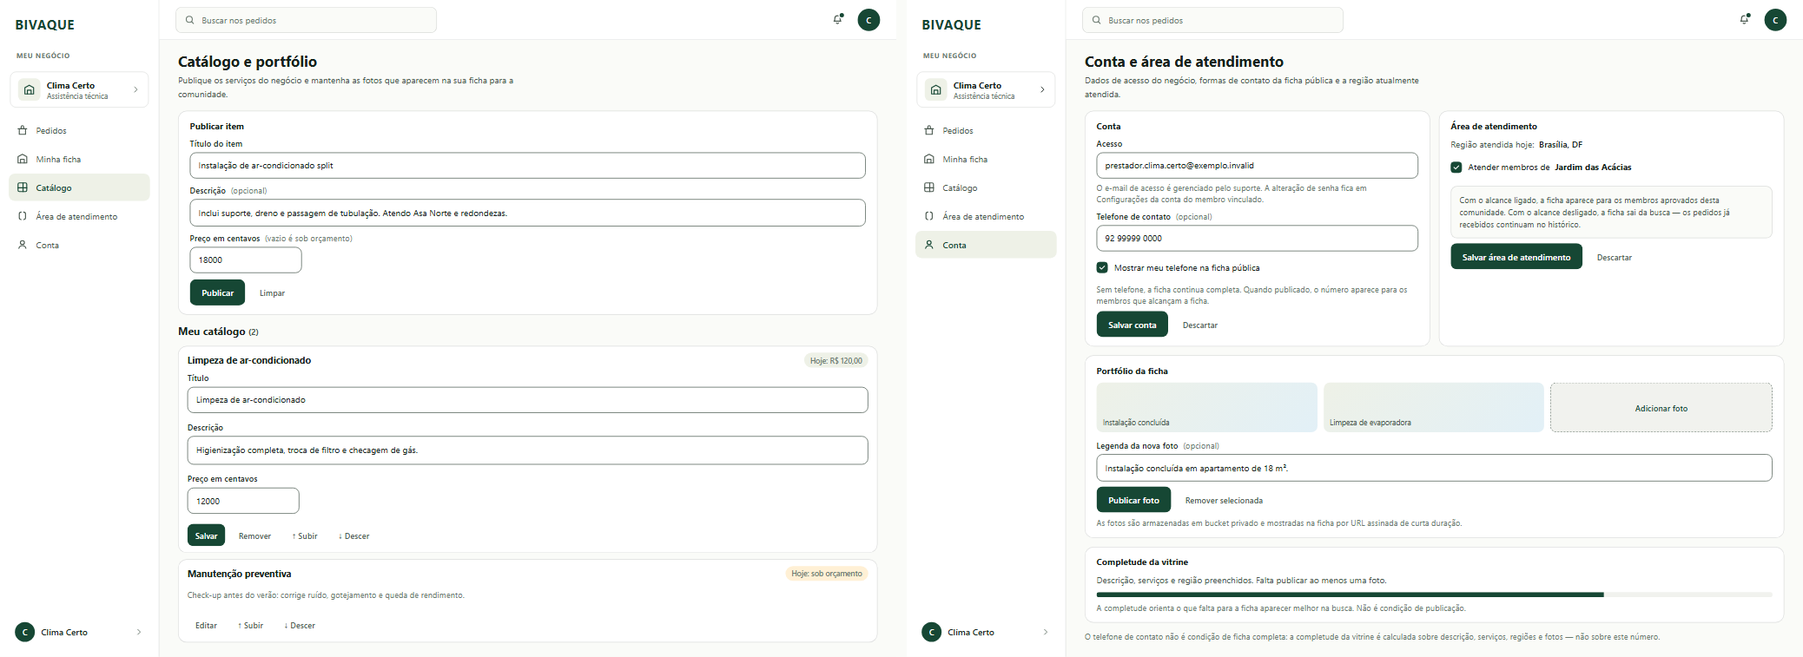
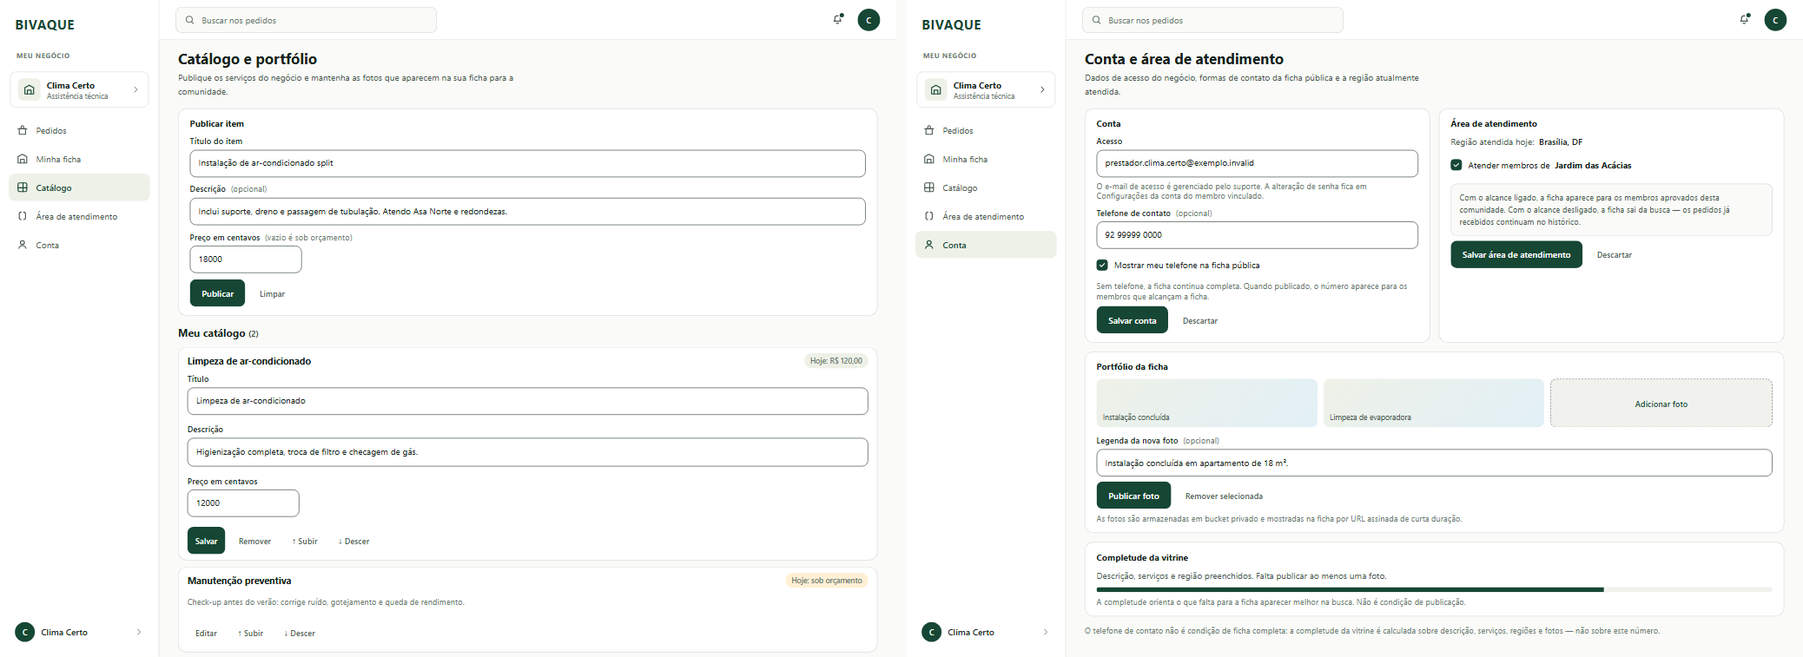
fix(visual): alvos de 44px em todas as pranchas e eventos com link na 82
O quadro de proximos eventos da 82 apontava para ancora vazia. Cada evento passa a levar a rota
real do evento — onde a presenca se confirma — e ganha seta de navegacao na linha.

A varredura de alvos que fiz junto achou ~148 elementos abaixo do minimo de 44px que a auditoria
do proprio repositorio exige, espalhados pelas pranchas. O padrao dominante era o link da
navegacao lateral com 42px: ele nao tinha min-height, a altura vinha do padding e do line-height,
e escorregou para 42 sem ninguem notar. O shell veio da prancha 70, que eu fiz — ou seja, propaguei
o defeito para todas as que copiaram a casca.

Corrigido em duas passadas: 17 min-heights de 36/38/40/42 subiram para 44, e 26 regras de
navegacao, acao e seletor ganharam min-height:44px explicito. A 78 precisou de dois ajustes de
ritmo para voltar a caber, porque botoes de 44px sao mais altos que os de 36.

As dezesseis pranchas passam na guarda.

diff --git a/docs/design/visual-guide-2026-09-06/src/82-web-localidade.html b/docs/design/visual-guide-2026-09-06/src/82-web-localidade.html
@@ -33,7 +33,7 @@
   .side{width:232px;background:var(--surface);border-right:1px solid var(--line);padding:22px 14px 18px;display:flex;flex-direction:column;flex:0 0 auto}
   .word{color:var(--pine700);font-weight:700;font-size:21px;letter-spacing:.02em;padding:0 10px}
   .nav{margin-top:24px;display:flex;flex-direction:column;gap:2px}
-  .nav a{display:flex;align-items:center;gap:12px;padding:11px 12px;border-radius:var(--radius);color:var(--ink700);font-size:15px;text-decoration:none}
+  .nav a{min-height:44px;display:flex;align-items:center;gap:12px;padding:11px 12px;border-radius:var(--radius);color:var(--ink700);font-size:15px;text-decoration:none}
   .nav a.on{background:var(--pine100);color:var(--pine700);font-weight:600}
   .sep{height:1px;background:var(--line);margin:18px 10px}
   .grow{flex:1}
@@ -58,7 +58,7 @@
 
   /* ---------- seletor em pílula (caso outbound declarado) ---------- */
   .pillSel{display:flex;gap:4px;padding:4px;border-radius:999px;border:1px solid var(--line);background:var(--sunken);width:fit-content}
-  .pillSel .opcao{flex:0 0 auto;min-height:44px;padding:0 18px;border-radius:999px;display:inline-flex;align-items:center;gap:8px;font-size:15px;font-weight:500;color:var(--ink700)}
+  .pillSel .opcao{min-height:44px;flex:0 0 auto;min-height:44px;padding:0 18px;border-radius:999px;display:inline-flex;align-items:center;gap:8px;font-size:15px;font-weight:500;color:var(--ink700)}
   .pillSel .opcao.on{background:var(--pine700);color:#fff;font-weight:600}
   .pillSel .opcao .chip{font-size:11px;font-weight:600;padding:2px 7px;border-radius:999px;background:var(--amber100);color:var(--amber700)}
   .pillSel .opcao.on .chip{background:rgba(255,255,255,.18);color:#fff}
@@ -72,16 +72,17 @@
   .eventos a{display:flex;align-items:center;gap:14px;padding:8px 0;font-size:14px;color:var(--ink900);text-decoration:none;min-height:44px}
   .eventos a + a{border-top:1px solid var(--line)}
   .eventos a:hover{color:var(--pine700)}
+  .eventos a::after{content:"";width:7px;height:7px;border-right:1.6px solid var(--ink500);border-bottom:1.6px solid var(--ink500);transform:rotate(-45deg);flex:0 0 auto;margin-left:2px}
   .eventos .dia{width:54px;font-size:12px;color:var(--ink500);text-align:right;flex:0 0 auto;font-weight:600;font-variant-numeric:tabular-nums}
   .eventos .titulo{flex:1;min-width:0;overflow:hidden;text-overflow:ellipsis;white-space:nowrap}
 
   .botoes{display:flex;gap:10px;flex-wrap:wrap;align-items:center}
-  .btn{min-height:42px;border-radius:var(--radius);padding:0 18px;font-size:14px;font-weight:600;font-family:inherit;border:1px solid transparent;display:inline-flex;align-items:center;gap:8px}
+  .btn{min-height:44px;min-height:44px;border-radius:var(--radius);padding:0 18px;font-size:14px;font-weight:600;font-family:inherit;border:1px solid transparent;display:inline-flex;align-items:center;gap:8px}
   .btn.primario{background:var(--pine700);color:#fff}
   .btn.secundario{background:var(--surface);color:var(--ink900);border-color:var(--line)}
 
   .vitrine{display:flex;flex-direction:column;gap:6px}
-  .vitrine a{display:flex;flex-direction:column;padding:8px 0;text-decoration:none;color:var(--ink900);font-size:14px;line-height:19px;min-height:42px}
+  .vitrine a{display:flex;flex-direction:column;padding:8px 0;text-decoration:none;color:var(--ink900);font-size:14px;line-height:19px;min-height:44px}
   .vitrine a:hover{color:var(--pine700)}
   .vitrine a:hover .cat{color:var(--pine700)}
   .vitrine a .nome{font-weight:600}
@@ -187,9 +188,9 @@
             <section class="cartao" aria-label="Próximos eventos da cidade">
               <h2>Próximos eventos da cidade</h2>
               <div class="eventos">
-                <a href="#"><span class="dia">18 out</span><span class="titulo">Café entre vizinhos — Jardim das Acácias</span></a>
-                <a href="#"><span class="dia">25 out</span><span class="titulo">Encontro de prestadores da Asa Norte</span></a>
-              <a href="#"><span class="dia">08 nov</span><span class="titulo">Roda de leitura no Parque da Cidade</span></a>
+                <a href="/events/cafe-entre-vizinhos"><span class="dia">18 out</span><span class="titulo">Café entre vizinhos — Jardim das Acácias</span></a>
+                <a href="/events/encontro-de-prestadores-asa-norte"><span class="dia">25 out</span><span class="titulo">Encontro de prestadores da Asa Norte</span></a>
+              <a href="/events/roda-de-leitura-parque-da-cidade"><span class="dia">08 nov</span><span class="titulo">Roda de leitura no Parque da Cidade</span></a>
             </div>
               <p style="margin:14px 0 0"><a href="#" style="font-size:14px;font-weight:600;color:var(--pine700);text-decoration:none">Ver todos os eventos →</a></p>
             </section>
@@ -289,9 +290,9 @@
             <section class="cartao" aria-label="Próximos eventos da cidade">
               <h2>Próximos eventos da cidade</h2>
               <div class="eventos">
-                <a href="#"><span class="dia">18 out</span><span class="titulo">Café entre vizinhos — Jardim das Acácias</span></a>
-                <a href="#"><span class="dia">25 out</span><span class="titulo">Encontro de prestadores da Asa Norte</span></a>
-                <a href="#"><span class="dia">08 nov</span><span class="titulo">Roda de leitura no Parque da Cidade</span></a>
+                <a href="/events/cafe-entre-vizinhos"><span class="dia">18 out</span><span class="titulo">Café entre vizinhos — Jardim das Acácias</span></a>
+                <a href="/events/encontro-de-prestadores-asa-norte"><span class="dia">25 out</span><span class="titulo">Encontro de prestadores da Asa Norte</span></a>
+                <a href="/events/roda-de-leitura-parque-da-cidade"><span class="dia">08 nov</span><span class="titulo">Roda de leitura no Parque da Cidade</span></a>
               </div>
               <p style="margin:14px 0 0"><a href="#" style="font-size:14px;font-weight:600;color:var(--pine700);text-decoration:none">Ver todos os eventos →</a></p>
             </section>

diff --git a/docs/design/visual-guide-2026-09-06/src/78-web-prestador-operacao.html b/docs/design/visual-guide-2026-09-06/src/78-web-prestador-operacao.html
@@ -42,7 +42,7 @@
   .biz strong{display:block;font-size:14px;font-weight:650;color:var(--ink900);white-space:nowrap;overflow:hidden;text-overflow:ellipsis}
   .biz small{display:block;font-size:12px;color:var(--ink500);white-space:nowrap;overflow:hidden;text-overflow:ellipsis}
   .nav{display:flex;flex-direction:column;gap:2px}
-  .nav a{display:flex;align-items:center;gap:12px;min-height:44px;padding:10px 12px;border-radius:var(--radius);color:var(--ink700);font-size:14px;text-decoration:none}
+  .nav a{min-height:44px;display:flex;align-items:center;gap:12px;min-height:44px;padding:10px 12px;border-radius:var(--radius);color:var(--ink700);font-size:14px;text-decoration:none}
   .nav a.on{background:var(--pine100);color:var(--pine700);font-weight:600}
   .sep{height:1px;background:var(--line);margin:14px 8px}
   .grow{flex:1}
@@ -76,7 +76,7 @@
   .field{display:flex;flex-direction:column;gap:6px;margin-bottom:10px}
   label{font-size:13px;font-weight:600;letter-spacing:.01em;color:var(--ink900)}
   label .opt{font-weight:400;color:var(--ink500);margin-left:4px}
-  .input,.area{width:100%;background:var(--surface);border:1px solid var(--ink700);border-radius:var(--radius);min-height:42px;padding:10px 13px;font-size:14px;color:var(--ink900);font-family:inherit}
+  .input,.area{width:100%;background:var(--surface);border:1px solid var(--ink700);border-radius:var(--radius);min-height:44px;padding:10px 13px;font-size:14px;color:var(--ink900);font-family:inherit}
   .area{min-height:78px;line-height:22px;resize:none}
   .filebox{display:flex;align-items:center;justify-content:space-between;gap:10px;padding:10px 12px;border:1px solid var(--line);border-radius:var(--radius);background:var(--canvas);font-size:14px;color:var(--ink500)}
   .filebox strong{font-size:14px;color:var(--ink900);font-weight:600}
@@ -84,11 +84,11 @@
   .check .box{width:18px;height:18px;border:1.5px solid var(--ink700);border-radius:5px;background:var(--surface);display:inline-flex;align-items:center;justify-content:center;flex:0 0 auto;margin-top:1px}
   .check.on .box{background:var(--pine700);border-color:var(--pine700);color:#fff}
   .actions{display:flex;gap:10px;align-items:center;margin-top:8px}
-  .btn{min-height:42px;border-radius:var(--radius);padding:0 18px;font-size:14px;font-weight:600;font-family:inherit;border:1px solid transparent}
+  .btn{min-height:44px;min-height:44px;border-radius:var(--radius);padding:0 18px;font-size:14px;font-weight:600;font-family:inherit;border:1px solid transparent}
   .btn.primary{background:var(--pine700);color:#fff}
   .btn.secondary{background:var(--surface);color:var(--ink900);border-color:var(--line)}
   .btn.ghost{background:transparent;color:var(--ink700)}
-  .btn.small{min-height:36px;font-size:13px;padding:0 12px}
+  .btn.small{min-height:44px;font-size:13px;padding:0 12px}
 
   /* ---------- lista de catalogo ---------- */
   .item{background:var(--surface);border:1px solid var(--line);border-radius:var(--radius-card);padding:14px 16px;display:flex;flex-direction:column;gap:8px}
@@ -114,11 +114,11 @@
   .shot.add{border:1px dashed var(--ink500);background:var(--sunken);align-items:center;justify-content:center;font-weight:600;color:var(--pine700);font-size:13px}
   .bar{height:8px;border-radius:999px;background:var(--sunken);overflow:hidden;margin-top:10px}
   .bar span{display:block;height:100%;background:var(--pine700)}
-  .main{padding:18px 30px 12px}
-  .item{padding:10px 14px}
-  .area{min-height:34px}
-  .hint{line-height:18px}
-  .shot{height:80px}
+  .main{padding:14px 30px 6px}
+  .item{padding:9px 14px}
+  .area{min-height:30px}
+  .hint{line-height:16px}
+  .shot{height:78px}
 </style>
 </head>
 <body>

diff --git a/docs/design/visual-guide-2026-09-06/src/81-web-comunidade-admin.html b/docs/design/visual-guide-2026-09-06/src/81-web-comunidade-admin.html
@@ -35,7 +35,7 @@
   .console-nome{font-size:15px;color:var(--ink700)}
   .console-nome b{color:var(--ink900);font-weight:600}
   .toplinks{display:flex;gap:6px;margin-left:auto}
-  .toplinks a{display:inline-flex;align-items:center;min-height:44px;padding:0 14px;border-radius:var(--radius);font-size:15px;color:var(--ink700);text-decoration:none}
+  .toplinks a{min-height:44px;display:inline-flex;align-items:center;min-height:44px;padding:0 14px;border-radius:var(--radius);font-size:15px;color:var(--ink700);text-decoration:none}
   .toplinks a.on{background:var(--pine100);color:var(--pine700);font-weight:600}
 
   .main{flex:1;padding:30px 40px;min-height:0;overflow-y:auto}
@@ -44,11 +44,11 @@
   h2.secao{font-size:18px;font-weight:650;margin:30px 0 4px}
   .nota-secao{font-size:14px;line-height:21px;color:var(--ink500);margin:0 0 14px;max-width:68ch}
 
-  .btn{min-height:44px;border-radius:var(--radius);padding:0 18px;font-size:15px;font-weight:600;font-family:inherit;border:1px solid transparent;display:inline-flex;align-items:center;justify-content:center}
+  .btn{min-height:44px;min-height:44px;border-radius:var(--radius);padding:0 18px;font-size:15px;font-weight:600;font-family:inherit;border:1px solid transparent;display:inline-flex;align-items:center;justify-content:center}
   .btn.primario{background:var(--pine700);color:#fff}
   .btn.secundario{background:var(--surface);color:var(--ink900);border-color:var(--line)}
   .btn.perigo{background:var(--rose100);color:var(--rose700)}
-  .btn.pequeno{min-height:38px;padding:0 14px;font-size:14px}
+  .btn.pequeno{min-height:44px;padding:0 14px;font-size:14px}
 
   .lista{display:flex;flex-direction:column;gap:10px}
   .linha{background:var(--surface);border:1px solid var(--line);border-radius:var(--radius-card);padding:14px 18px;display:flex;align-items:center;gap:16px}
@@ -61,7 +61,7 @@
   .papel-tag.revogada{background:var(--rose100);color:var(--rose700)}
   .acoes{display:flex;gap:8px;flex:0 0 auto;align-items:center}
   .area-motivo{margin-top:10px}
-  .area-motivo textarea{width:100%;background:var(--surface);border:1px solid var(--line);border-radius:var(--radius);min-height:38px;padding:8px 12px;font-size:14px;font-family:inherit;color:var(--ink900);line-height:20px}
+  .area-motivo textarea{width:100%;background:var(--surface);border:1px solid var(--line);border-radius:var(--radius);min-height:44px;padding:8px 12px;font-size:14px;font-family:inherit;color:var(--ink900);line-height:20px}
 
   .privado{display:flex;gap:8px;align-items:center;font-size:13px;color:var(--ink500);margin-top:8px}
 
@@ -77,7 +77,7 @@
     linear-gradient(135deg,var(--pine100) 0%, #E8EFEA 48%, #E2F0F7 100%);
     display:flex;align-items:center;justify-content:center;color:var(--ink500);font-size:13px;font-weight:500}
   .midiaAcoes{display:flex;flex-wrap:wrap;gap:10px;margin-top:14px;align-items:center}
-  .uploadLabel{position:relative;display:inline-flex;align-items:center;gap:8px;min-height:42px;padding:0 18px;border-radius:var(--radius);border:1px dashed var(--ink500);background:var(--sunken);color:var(--ink900);font-size:14px;font-weight:600;cursor:pointer}
+  .uploadLabel{position:relative;display:inline-flex;align-items:center;gap:8px;min-height:44px;padding:0 18px;border-radius:var(--radius);border:1px dashed var(--ink500);background:var(--sunken);color:var(--ink900);font-size:14px;font-weight:600;cursor:pointer}
   .uploadLabel:hover{border-color:var(--pine700);color:var(--pine700)}
 
   .alerta{padding:12px 16px;border-radius:var(--radius);font-size:14px;display:flex;align-items:center;gap:10px}

diff --git a/docs/design/visual-guide-2026-09-06/src/76-web-familia.html b/docs/design/visual-guide-2026-09-06/src/76-web-familia.html
@@ -35,7 +35,7 @@
   .side{width:232px;background:var(--surface);border-right:1px solid var(--line);padding:22px 14px 18px;display:flex;flex-direction:column;flex:0 0 auto}
   .word{color:var(--pine700);font-weight:700;font-size:21px;letter-spacing:.02em;padding:0 10px}
   .nav{margin-top:24px;display:flex;flex-direction:column;gap:2px}
-  .nav a{display:flex;align-items:center;gap:12px;padding:11px 12px;border-radius:var(--radius);color:var(--ink700);font-size:15px;text-decoration:none}
+  .nav a{min-height:44px;display:flex;align-items:center;gap:12px;padding:11px 12px;border-radius:var(--radius);color:var(--ink700);font-size:15px;text-decoration:none}
   .nav a.on{background:var(--pine100);color:var(--pine700);font-weight:600}
   .nav .sub a{padding:8px 12px;font-size:14px;color:var(--ink500)}
   .nav .sub a.on{color:var(--pine700);background:var(--pine100);font-weight:600}
@@ -73,16 +73,16 @@
 
   .field{display:flex;flex-direction:column;gap:6px}
   label{font-size:13px;font-weight:600;letter-spacing:.01em;color:var(--ink900)}
-  .input,.area{width:100%;background:var(--surface);border:1px solid var(--ink700);border-radius:var(--radius);min-height:42px;padding:10px 13px;font-size:14px;color:var(--ink900)}
+  .input,.area{width:100%;background:var(--surface);border:1px solid var(--ink700);border-radius:var(--radius);min-height:44px;padding:10px 13px;font-size:14px;color:var(--ink900)}
   .input.short{width:340px;max-width:100%}
   .select{display:flex;align-items:center;justify-content:space-between}
   .chev{width:7px;height:7px;border-right:1.6px solid var(--ink700);border-bottom:1.6px solid var(--ink700);transform:rotate(45deg)}
 
-  .btn{min-height:42px;border-radius:var(--radius);padding:0 18px;font-size:14px;font-weight:600;font-family:inherit;border:1px solid transparent;display:inline-flex;align-items:center;justify-content:center;gap:7px}
+  .btn{min-height:44px;min-height:44px;border-radius:var(--radius);padding:0 18px;font-size:14px;font-weight:600;font-family:inherit;border:1px solid transparent;display:inline-flex;align-items:center;justify-content:center;gap:7px}
   .btn.primario{background:var(--pine700);color:#fff}
   .btn.secundario{background:var(--surface);color:var(--ink900);border-color:var(--line)}
   .btn.perigo{background:var(--rose100);color:var(--rose700)}
-  .btn.sm{min-height:38px;padding:0 14px;font-size:13px}
+  .btn.sm{min-height:44px;padding:0 14px;font-size:13px}
 
   /* cartao de aviso (link aparece uma unica vez) */
   .linkbox{background:var(--sunken);border-radius:var(--radius);padding:14px 16px;display:flex;flex-direction:column;gap:10px}

diff --git a/docs/design/visual-guide-2026-09-06/src/80-web-recomendacoes.html b/docs/design/visual-guide-2026-09-06/src/80-web-recomendacoes.html
@@ -37,7 +37,7 @@
   .side{width:232px;background:var(--surface);border-right:1px solid var(--line);padding:22px 14px 18px;display:flex;flex-direction:column;flex:0 0 auto}
   .word{color:var(--pine700);font-weight:700;font-size:21px;letter-spacing:.02em;padding:0 10px}
   .nav{margin-top:24px;display:flex;flex-direction:column;gap:2px}
-  .nav a{display:flex;align-items:center;gap:12px;padding:11px 12px;border-radius:var(--radius);color:var(--ink700);font-size:15px;text-decoration:none}
+  .nav a{min-height:44px;display:flex;align-items:center;gap:12px;padding:11px 12px;border-radius:var(--radius);color:var(--ink700);font-size:15px;text-decoration:none}
   .nav a.on{background:var(--pine100);color:var(--pine700);font-weight:600}
   .sep{height:1px;background:var(--line);margin:18px 10px}
   .grow{flex:1}
@@ -59,7 +59,7 @@
   .lead{font-size:14px;line-height:22px;color:var(--ink700);margin:0 0 16px;max-width:64ch}
 
   .tabs{display:flex;gap:18px;border-bottom:1px solid var(--line);margin-bottom:14px}
-  .tab{display:inline-flex;align-items:center;min-height:42px;padding:0 2px 8px;font-size:14px;font-weight:600;color:var(--ink500);border-bottom:2px solid transparent}
+  .tab{display:inline-flex;align-items:center;min-height:44px;padding:0 2px 8px;font-size:14px;font-weight:600;color:var(--ink500);border-bottom:2px solid transparent}
   .tab.on{color:var(--pine700);border-color:var(--pine700)}
   .tab .count{margin-left:6px;font-size:12px;font-weight:500;color:var(--ink500)}
 
@@ -84,7 +84,7 @@
   .replybox{margin-top:12px;padding-top:10px;border-top:1px solid var(--line);display:flex;flex-direction:column;gap:8px}
   .area{width:100%;background:var(--surface);border:1px solid var(--ink700);border-radius:var(--radius);min-height:60px;padding:9px 12px;font-size:14px;color:var(--ink900);font-family:inherit;line-height:20px}
   .row-actions{display:flex;gap:8px;align-items:center;flex-wrap:wrap}
-  .btn{min-height:38px;border-radius:var(--radius);padding:0 14px;font-size:13px;font-weight:600;font-family:inherit;border:1px solid transparent;display:inline-flex;align-items:center;justify-content:center}
+  .btn{min-height:44px;min-height:44px;border-radius:var(--radius);padding:0 14px;font-size:13px;font-weight:600;font-family:inherit;border:1px solid transparent;display:inline-flex;align-items:center;justify-content:center}
   .btn.primary{background:var(--pine700);color:#fff}
   .btn.secondary{background:var(--surface);color:var(--ink900);border-color:var(--line)}
   .btn.ghost{background:transparent;color:var(--ink700);border-color:var(--line)}

diff --git a/docs/design/visual-guide-2026-09-06/src/70-web-evento-organizar.html b/docs/design/visual-guide-2026-09-06/src/70-web-evento-organizar.html
@@ -32,7 +32,7 @@
   .side{width:232px;background:var(--surface);border-right:1px solid var(--line);padding:22px 14px 18px;display:flex;flex-direction:column;flex:0 0 auto}
   .word{color:var(--pine700);font-weight:700;font-size:21px;letter-spacing:.02em;padding:0 10px}
   .nav{margin-top:24px;display:flex;flex-direction:column;gap:2px}
-  .nav a{display:flex;align-items:center;gap:12px;padding:11px 12px;border-radius:var(--radius);color:var(--ink700);font-size:15px;text-decoration:none}
+  .nav a{min-height:44px;display:flex;align-items:center;gap:12px;padding:11px 12px;border-radius:var(--radius);color:var(--ink700);font-size:15px;text-decoration:none}
   .nav a.on{background:var(--pine100);color:var(--pine700);font-weight:600}
   .sep{height:1px;background:var(--line);margin:18px 10px}
   .grow{flex:1}
@@ -65,7 +65,7 @@
   .input,.area{width:100%;background:var(--surface);border:1px solid var(--ink700);border-radius:var(--radius);min-height:44px;padding:11px 13px;font-size:15px;color:var(--ink900)}
   .area{min-height:80px;line-height:22px}
   .actions{display:flex;gap:12px;align-items:center;margin-top:2px}
-  .btn{min-height:44px;border-radius:var(--radius);padding:0 20px;font-size:15px;font-weight:600;font-family:inherit;border:1px solid transparent}
+  .btn{min-height:44px;min-height:44px;border-radius:var(--radius);padding:0 20px;font-size:15px;font-weight:600;font-family:inherit;border:1px solid transparent}
   .btn.primary{background:var(--pine700);color:#fff}
   .btn.secondary{background:var(--surface);color:var(--ink900);border-color:var(--line)}
   .btn.danger{background:var(--rose100);color:var(--rose700)}
@@ -104,7 +104,7 @@
   .orgbar{display:flex;align-items:center;justify-content:space-between;gap:16px;background:var(--pine100);border-radius:var(--radius-card);padding:11px 16px;margin-bottom:20px}
   .orgbar > span{font-size:14px;font-weight:600;color:var(--pine700)}
   .orgbar .grp{display:flex;gap:10px}
-  .orgbar .btn{min-height:40px;font-size:14px;padding:0 16px}
+  .orgbar .btn{min-height:44px;font-size:14px;padding:0 16px}
   section p.body{font-size:15px;line-height:25px;color:var(--ink700);margin:0;max-width:70ch}
   .divider{height:1px;background:var(--line);margin:22px 0}
   .who{display:flex;flex-direction:column;gap:12px;margin-top:10px}

diff --git a/docs/design/visual-guide-2026-09-06/src/75-web-conversas.html b/docs/design/visual-guide-2026-09-06/src/75-web-conversas.html
@@ -38,7 +38,7 @@
   .side{width:232px;background:var(--surface);border-right:1px solid var(--line);padding:22px 14px 18px;display:flex;flex-direction:column;flex:0 0:auto}
   .word{color:var(--pine700);font-weight:700;font-size:21px;letter-spacing:.02em;padding:0 10px}
   .nav{margin-top:24px;display:flex;flex-direction:column;gap:2px}
-  .nav a{display:flex;align-items:center;gap:12px;padding:11px 12px;border-radius:var(--radius);color:var(--ink700);font-size:15px;text-decoration:none}
+  .nav a{min-height:44px;display:flex;align-items:center;gap:12px;padding:11px 12px;border-radius:var(--radius);color:var(--ink700);font-size:15px;text-decoration:none}
   .nav a.on{background:var(--pine100);color:var(--pine700);font-weight:600}
   .sep{height:1px;background:var(--line);margin:18px 10px}
   .grow{flex:1}
@@ -58,11 +58,11 @@
   /* ---------- /messages: header + two-pane ---------- */
   .msg-head{height:58px;flex:0 0:auto;background:var(--surface);border-bottom:1px solid var(--line);display:flex;align-items:center;justify-content:space-between;padding:0 28px;gap:14px}
   .msg-head h1{font-size:19px;font-weight:650;margin:0;color:var(--ink900);letter-spacing:-.005em}
-  .btn{min-height:42px;border-radius:var(--radius);padding:0 16px;font-size:14px;font-weight:600;font-family:inherit;border:1px solid transparent;display:inline-flex;align-items:center;justify-content:center;gap:7px}
+  .btn{min-height:44px;min-height:44px;border-radius:var(--radius);padding:0 16px;font-size:14px;font-weight:600;font-family:inherit;border:1px solid transparent;display:inline-flex;align-items:center;justify-content:center;gap:7px}
   .btn.primario{background:var(--pine700);color:#fff}
   .btn.secundario{background:var(--surface);color:var(--ink900);border-color:var(--line)}
   .btn.fantasma{background:transparent;color:var(--ink900);border-color:transparent}
-  .btn.sm{min-height:36px;padding:0 12px;font-size:13px}
+  .btn.sm{min-height:44px;padding:0 12px;font-size:13px}
   .btn[disabled]{opacity:.45;cursor:not-allowed}
 
   .msg-body{flex:1;display:flex;min-height:0;background:var(--canvas)}

diff --git a/docs/design/visual-guide-2026-09-06/src/73-web-comunidade-pedidos.html b/docs/design/visual-guide-2026-09-06/src/73-web-comunidade-pedidos.html
@@ -31,18 +31,18 @@
   .console-nome{font-size:15px;color:var(--ink700)}
   .console-nome b{color:var(--ink900);font-weight:600}
   .toplinks{display:flex;gap:6px}
-  .toplinks a{display:inline-flex;align-items:center;min-height:44px;padding:0 14px;border-radius:var(--radius);font-size:15px;color:var(--ink700);text-decoration:none}
+  .toplinks a{min-height:44px;display:inline-flex;align-items:center;min-height:44px;padding:0 14px;border-radius:var(--radius);font-size:15px;color:var(--ink700);text-decoration:none}
   .toplinks a.on{background:var(--pine100);color:var(--pine700);font-weight:600}
 
   .main{flex:1;padding:30px 40px;min-height:0}
   h1{font-size:30px;line-height:38px;font-weight:650;letter-spacing:-.011em;margin:0 0 8px}
   .lead{font-size:16px;line-height:25px;color:var(--ink700);margin:0 0 24px;max-width:66ch}
   .barra{display:flex;align-items:center;gap:12px;margin-bottom:16px}
-  .btn{min-height:44px;border-radius:var(--radius);padding:0 18px;font-size:15px;font-weight:600;font-family:inherit;border:1px solid transparent;display:inline-flex;align-items:center;justify-content:center}
+  .btn{min-height:44px;min-height:44px;border-radius:var(--radius);padding:0 18px;font-size:15px;font-weight:600;font-family:inherit;border:1px solid transparent;display:inline-flex;align-items:center;justify-content:center}
   .btn.primario{background:var(--pine700);color:#fff}
   .btn.secundario{background:var(--surface);color:var(--ink900);border-color:var(--line)}
   .btn.perigo{background:var(--rose100);color:var(--rose700)}
-  .btn.pequeno{min-height:38px;padding:0 14px;font-size:14px}
+  .btn.pequeno{min-height:44px;padding:0 14px;font-size:14px}
 
   .lista{display:flex;flex-direction:column;gap:10px}
   .linha{background:var(--surface);border:1px solid var(--line);border-radius:var(--radius-card);padding:14px 18px;display:flex;align-items:center;gap:16px}

diff --git a/docs/design/visual-guide-2026-09-06/src/84-web-busca.html b/docs/design/visual-guide-2026-09-06/src/84-web-busca.html
@@ -33,7 +33,7 @@
   .side{width:232px;background:var(--surface);border-right:1px solid var(--line);padding:22px 14px 18px;display:flex;flex-direction:column;flex:0 0 auto}
   .word{color:var(--pine700);font-weight:700;font-size:21px;letter-spacing:.02em;padding:0 10px}
   .nav{margin-top:24px;display:flex;flex-direction:column;gap:2px}
-  .nav a{display:flex;align-items:center;gap:12px;padding:11px 12px;border-radius:var(--radius);color:var(--ink700);font-size:15px;text-decoration:none}
+  .nav a{min-height:44px;display:flex;align-items:center;gap:12px;padding:11px 12px;border-radius:var(--radius);color:var(--ink700);font-size:15px;text-decoration:none}
   .nav a.on{background:var(--pine100);color:var(--pine700);font-weight:600}
   .nav.sec{margin-top:18px}
   .sep{height:1px;background:var(--line);margin:18px 10px}
@@ -87,7 +87,7 @@
   .vazio h2{margin:0;font-size:20px;line-height:28px;font-weight:650;letter-spacing:-.008em}
   .vazio p{margin:0;font-size:15px;line-height:24px;color:var(--ink700);max-width:540px}
   .vazioActions{display:flex;gap:10px;flex-wrap:wrap;justify-content:center;margin-top:6px}
-  .btn{min-height:44px;border-radius:var(--radius);padding:0 18px;font-size:15px;font-weight:600;font-family:inherit;border:1px solid transparent;display:inline-flex;align-items:center;justify-content:center;text-decoration:none}
+  .btn{min-height:44px;min-height:44px;border-radius:var(--radius);padding:0 18px;font-size:15px;font-weight:600;font-family:inherit;border:1px solid transparent;display:inline-flex;align-items:center;justify-content:center;text-decoration:none}
   .btn.primary{background:var(--pine700);color:#fff}
   .btn.secondary{background:var(--surface);color:var(--ink900);border-color:var(--line)}
 

diff --git a/docs/design/visual-guide-2026-09-06/src/79-web-indicar-prestador.html b/docs/design/visual-guide-2026-09-06/src/79-web-indicar-prestador.html
@@ -36,7 +36,7 @@
   .side{width:232px;background:var(--surface);border-right:1px solid var(--line);padding:22px 14px 18px;display:flex;flex-direction:column;flex:0 0 auto}
   .word{color:var(--pine700);font-weight:700;font-size:21px;letter-spacing:.02em;padding:0 10px}
   .nav{margin-top:24px;display:flex;flex-direction:column;gap:2px}
-  .nav a{display:flex;align-items:center;gap:12px;padding:11px 12px;border-radius:var(--radius);color:var(--ink700);font-size:15px;text-decoration:none}
+  .nav a{min-height:44px;display:flex;align-items:center;gap:12px;padding:11px 12px;border-radius:var(--radius);color:var(--ink700);font-size:15px;text-decoration:none}
   .nav a.on{background:var(--pine100);color:var(--pine700);font-weight:600}
   .sep{height:1px;background:var(--line);margin:18px 10px}
   .grow{flex:1}
@@ -69,7 +69,7 @@
   label{font-size:14px;font-weight:600;letter-spacing:.01em}
   .input{width:100%;background:var(--surface);border:1px solid var(--ink700);border-radius:var(--radius);min-height:44px;padding:11px 13px;font-size:15px;color:var(--ink900)}
   .actions{display:flex;gap:12px;align-items:center;margin-top:4px}
-  .btn{min-height:44px;border-radius:var(--radius);padding:0 20px;font-size:15px;font-weight:600;font-family:inherit;border:1px solid transparent}
+  .btn{min-height:44px;min-height:44px;border-radius:var(--radius);padding:0 20px;font-size:15px;font-weight:600;font-family:inherit;border:1px solid transparent}
   .btn.primary{background:var(--pine700);color:#fff}
   .btn.secondary{background:var(--surface);color:var(--ink900);border-color:var(--line)}
   .btn.ghost{background:transparent;color:var(--ink700)}

diff --git a/docs/design/visual-guide-2026-09-06/src/72-web-auth-link-invalido.html b/docs/design/visual-guide-2026-09-06/src/72-web-auth-link-invalido.html
@@ -47,7 +47,7 @@
   .selo{width:64px;height:64px;border-radius:999px;background:var(--pine100);display:flex;align-items:center;justify-content:center;margin-bottom:26px}
   h1{font-size:44px;line-height:1.16;font-weight:650;letter-spacing:-.015em;margin:0 0 16px}
   .lead{font-size:18px;line-height:29px;color:var(--ink700);margin:0 0 34px;max-width:44ch}
-  .btn{height:64px;border-radius:12px;font-size:18px;font-weight:600;display:flex;align-items:center;justify-content:center;border:1px solid transparent;font-family:inherit}
+  .btn{min-height:44px;height:64px;border-radius:12px;font-size:18px;font-weight:600;display:flex;align-items:center;justify-content:center;border:1px solid transparent;font-family:inherit}
   .btn.primario{background:var(--pine700);color:#fff;width:100%}
   .btn.secundario{background:var(--surface);color:var(--ink900);border-color:var(--line);width:100%;margin-top:14px}
   .rodape{margin-top:30px;display:flex;align-items:center;justify-content:center}

diff --git a/docs/design/visual-guide-2026-09-06/src/85-web-arrivals.html b/docs/design/visual-guide-2026-09-06/src/85-web-arrivals.html
@@ -44,7 +44,7 @@
   .chip .dot{width:8px;height:8px;border-radius:999px;background:var(--pine700)}
   .chip strong{color:var(--ink900);font-weight:650}
   .spacer{flex:1}
-  .btn{min-height:44px;border-radius:var(--radius);padding:0 18px;font-size:15px;font-weight:600;font-family:inherit;border:1px solid transparent;display:inline-flex;align-items:center;justify-content:center;text-decoration:none;gap:8px}
+  .btn{min-height:44px;min-height:44px;border-radius:var(--radius);padding:0 18px;font-size:15px;font-weight:600;font-family:inherit;border:1px solid transparent;display:inline-flex;align-items:center;justify-content:center;text-decoration:none;gap:8px}
   .btn.secundario{background:var(--surface);color:var(--ink900);border-color:var(--line)}
 
   .tabela{background:var(--surface);border:1px solid var(--line);border-radius:var(--radius-card);overflow:hidden}
